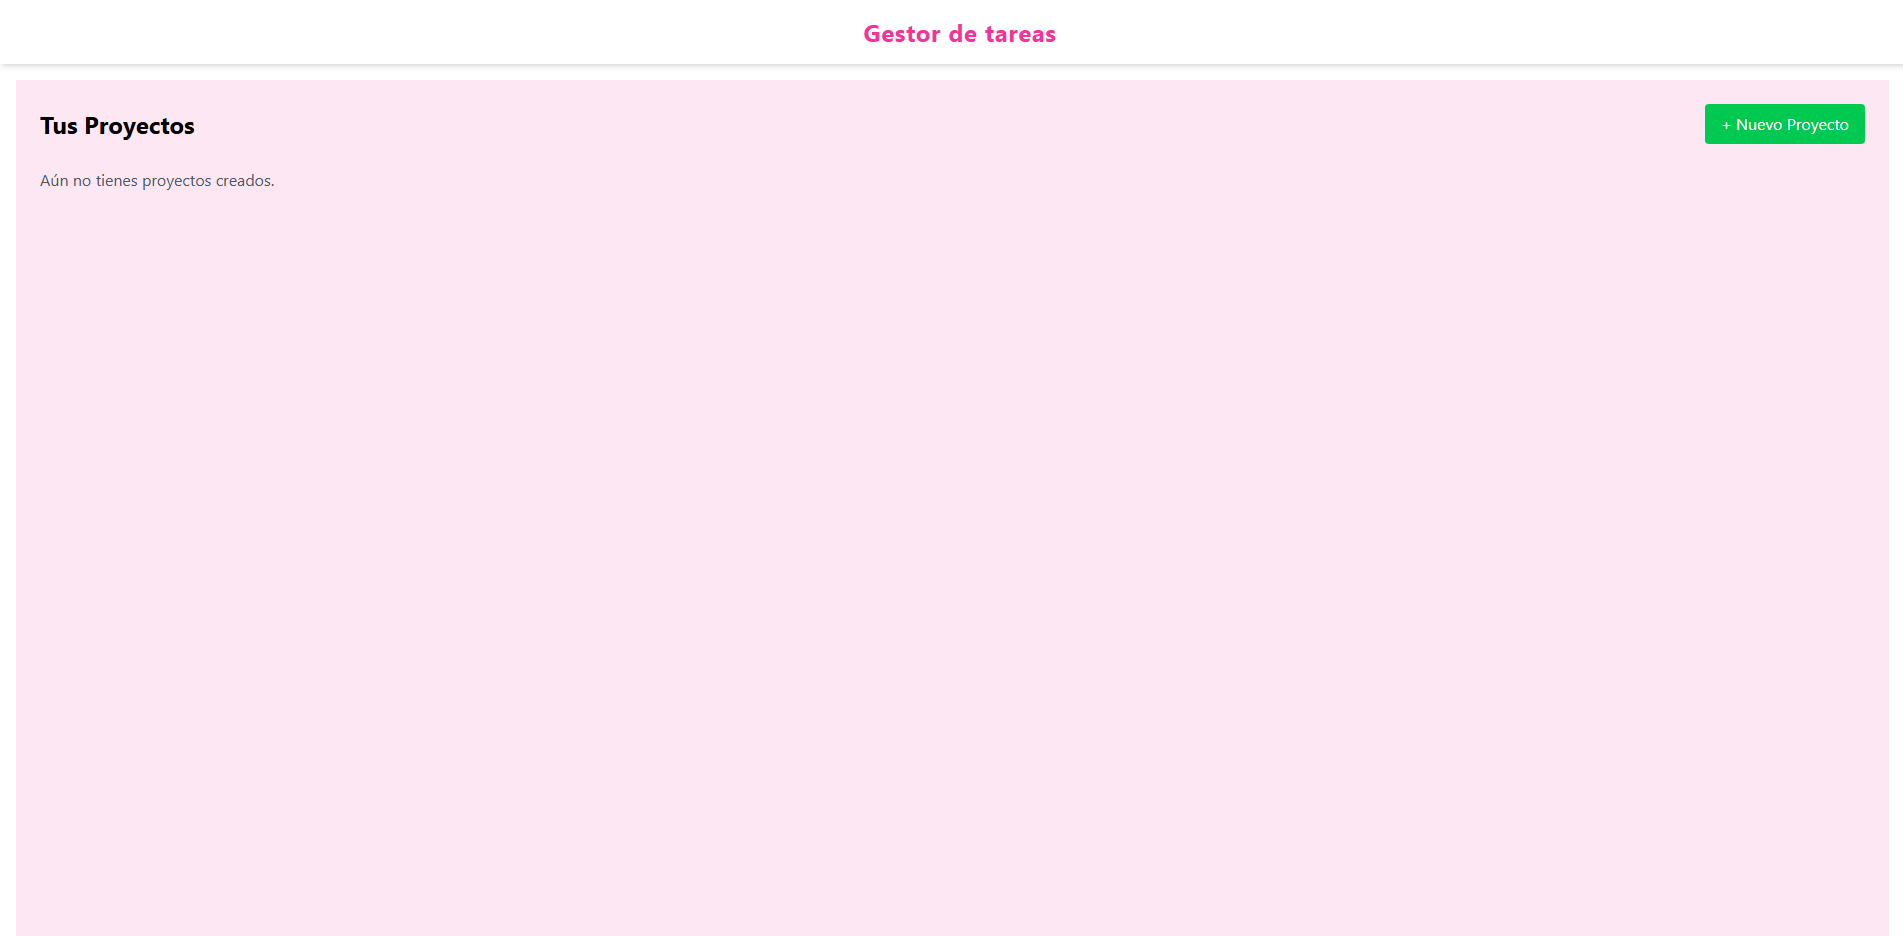
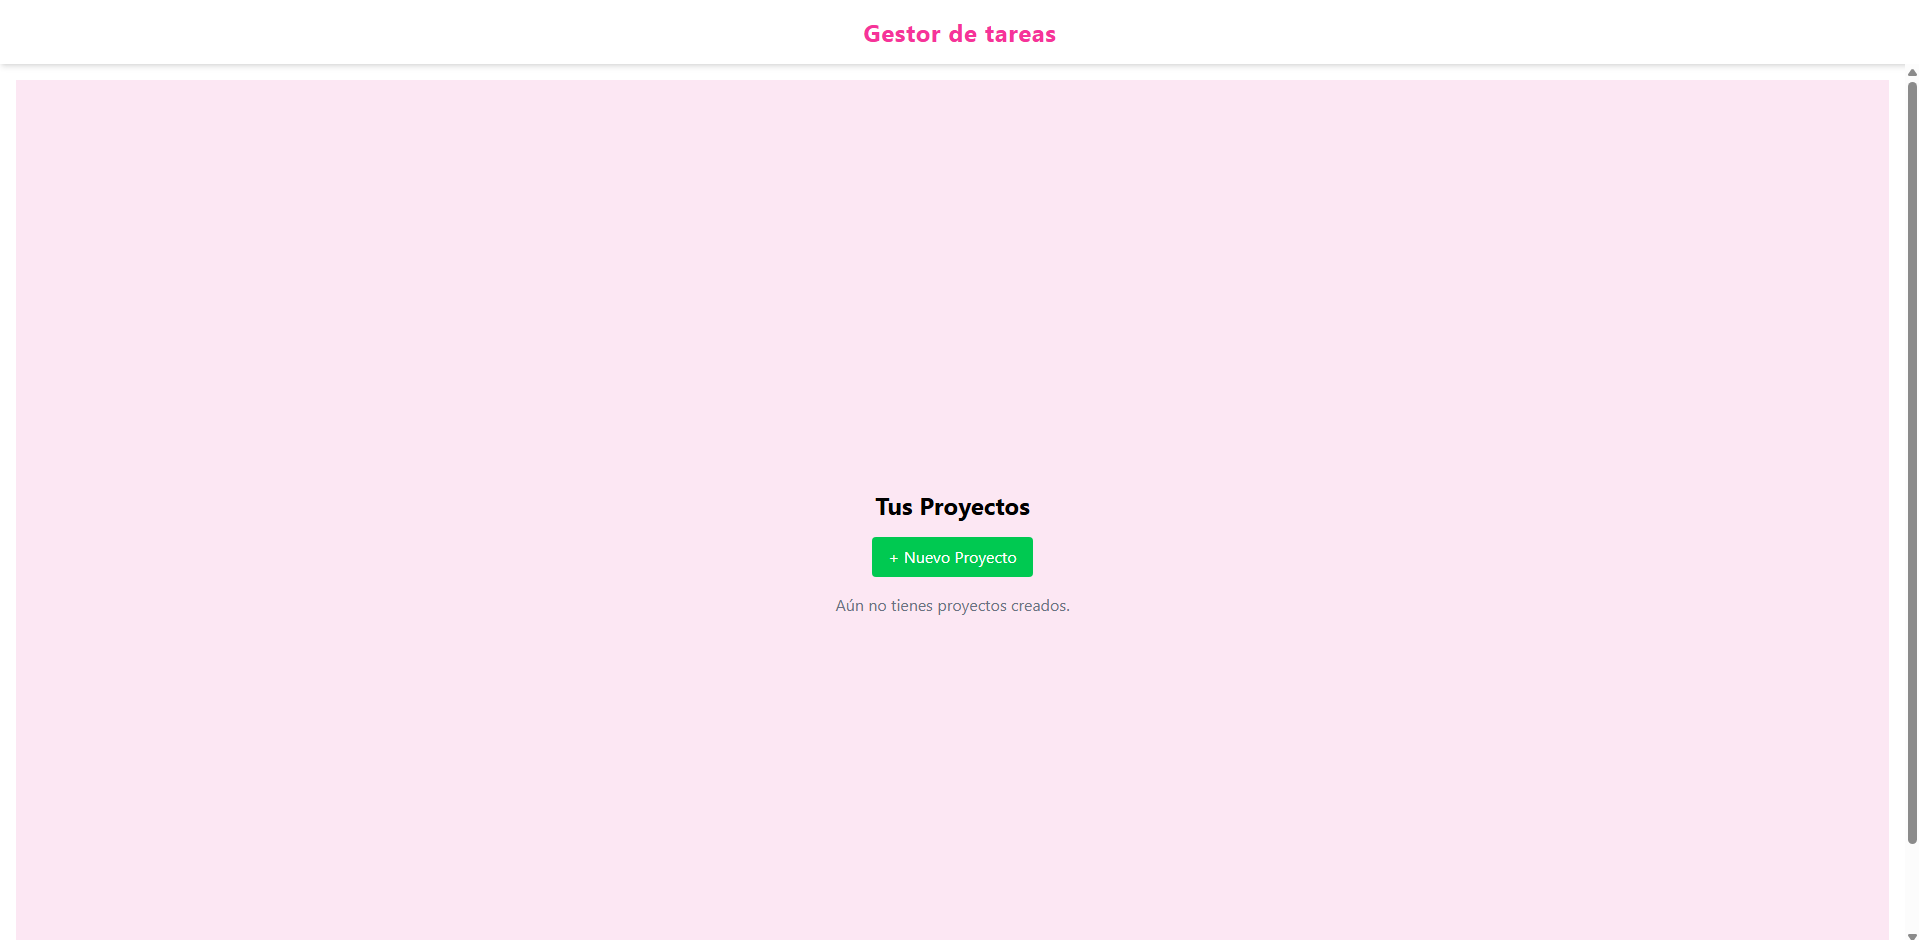
Actualización de todo
actualice imagenes y unos cuantos botones

diff --git a/src/components/ProjectsView.jsx b/src/components/ProjectsView.jsx
@@ -10,30 +10,45 @@ const ProjectsView = ({ projects, setProjects, onSelectProject }) => {
     setIsModalOpen(false);
   };
 
-  return (
-    <main className="p-6 min-h-screen bg-pink-100">
-      <div className="flex justify-between items-center mb-6">
-        <h2 className="text-2xl font-bold">Tus Proyectos</h2>
-        <button
-          onClick={() => setIsModalOpen(true)}
-          className="bg-green-500 text-white px-4 py-2 rounded hover:bg-green-600 transition"
-        >
-          + Nuevo Proyecto
-        </button>
-      </div>
+  const handleDeleteProject = (id) => {
+    setProjects(projects.filter((p) => p.id !== id));
+  };
 
+  return (
+    <main className="p-6 min-h-screen bg-pink-100 flex flex-col items-center justify-center">
       {projects.length === 0 ? (
-        <p className="text-gray-600">Aún no tienes proyectos creados.</p>
-      ) : (
-        <div className="grid gap-4 grid-cols-1 sm:grid-cols-2 md:grid-cols-3">
-          {projects.map((project, index) => (
-            <ProjectCard
-              key={index}
-              project={project}
-              onClick={() => onSelectProject(project)}
-            />
-          ))}
+        <div className="flex flex-col items-center gap-4">
+          <h2 className="text-2xl font-bold">Tus Proyectos</h2>
+          <button
+            onClick={() => setIsModalOpen(true)}
+            className="bg-green-500 text-white px-4 py-2 rounded hover:bg-green-600 transition"
+          >
+            + Nuevo Proyecto
+          </button>
+          <p className="text-gray-500">Aún no tienes proyectos creados.</p>
         </div>
+      ) : (
+        <>
+          <div className="flex justify-between items-center w-full max-w-5xl mb-6">
+            <h2 className="text-2xl font-bold">Tus Proyectos</h2>
+            <button
+              onClick={() => setIsModalOpen(true)}
+              className="bg-green-500 text-white px-4 py-2 rounded hover:bg-green-600 transition"
+            >
+              + Nuevo Proyecto
+            </button>
+          </div>
+          <div className="grid gap-4 grid-cols-1 sm:grid-cols-2 md:grid-cols-3 w-full max-w-5xl">
+            {projects.map((project, index) => (
+              <ProjectCard
+                key={index}
+                project={project}
+                onClick={() => onSelectProject(project)}
+                onDelete={handleDeleteProject} // 👈 Pasamos la función
+              />
+            ))}
+          </div>
+        </>
       )}
 
       {isModalOpen && (

diff --git a/src/components/ProjectCard.jsx b/src/components/ProjectCard.jsx
@@ -1,11 +1,19 @@
-const ProjectCard = ({ project, onClick }) => {
+const ProjectCard = ({ project, onClick, onDelete }) => {
   return (
     <div
-      onClick={onClick}
-      className="bg-white p-4 rounded shadow hover:shadow-md transition cursor-pointer border border-transparent hover:border-indigo-500"
+      className="bg-white p-4 rounded shadow hover:shadow-md transition border border-transparent hover:border-indigo-500 flex flex-col justify-between"
     >
-      <h3 className="text-xl font-semibold">{project.name}</h3>
-      <p className="text-gray-600">{project.description}</p>
+      <div onClick={onClick} className="cursor-pointer">
+        <h3 className="text-xl font-semibold">{project.name}</h3>
+        <p className="text-gray-600">{project.description}</p>
+      </div>
+
+      <button
+        onClick={() => onDelete(project.id)}
+        className="mt-4 bg-red-500 text-white px-3 py-1 rounded hover:bg-red-600 transition"
+      >
+        Eliminar
+      </button>
     </div>
   );
 };

diff --git a/src/components/Kanban.jsx b/src/components/Kanban.jsx
@@ -86,10 +86,13 @@ const Kanban = ({ project, onBack }) => {
 
       <div className="grid grid-cols-1 md:grid-cols-3 gap-4">
         {columns.map((column) => (
-          <div key={column.id} className="bg-white p-4 rounded shadow">
+          <div
+            key={column.id}
+            className="bg-white p-4 rounded-sm shadow min-h-[300px] flex flex-col"
+          >
             <h3 className="text-lg font-semibold mb-4">{column.title}</h3>
 
-            <div className="space-y-2 min-h-[100px]">
+            <div className="space-y-2 flex-1">
               {column.tasks.length === 0 && (
                 <p className="text-gray-400 italic">Sin tareas</p>
               )}

diff --git a/README.md b/README.md
@@ -19,16 +19,14 @@ Permite organizar proyectos y tareas en columnas con drag-and-drop, además de a
 ## 📷 Capturas de pantalla
 
 ### Vista de proyectos
-![Vista de proyectos](./imagenes/primera.png)
+![Vista de proyectos](./screenshots/projects-view.png)
 
 ### Modal de nueva tarea
-![Modal nueva tarea](./imagenes/segunda.png)
+![Modal nueva tarea](./screenshots/new-task.png)
 
 ### Tablero Kanban
-![Tablero Kanban](./imagenes/tercera.png)
+![Tablero Kanban](./screenshots/kanban-board.png)
 
-### Nuevo Modal de un tablero Kanban
-![Tablero Kanban](./imagenes/cuarta.png)
 ---
 
 ## 🛠 Tecnologías utilizadas
@@ -41,3 +39,9 @@ Permite organizar proyectos y tareas en columnas con drag-and-drop, además de a
 
 ---
 
+## 📦 Instalación y ejecución
+
+1. **Clonar el repositorio**
+   ```bash
+   git clone https://github.com/tu-usuario/kanban-app.git
+   cd kanban-app
